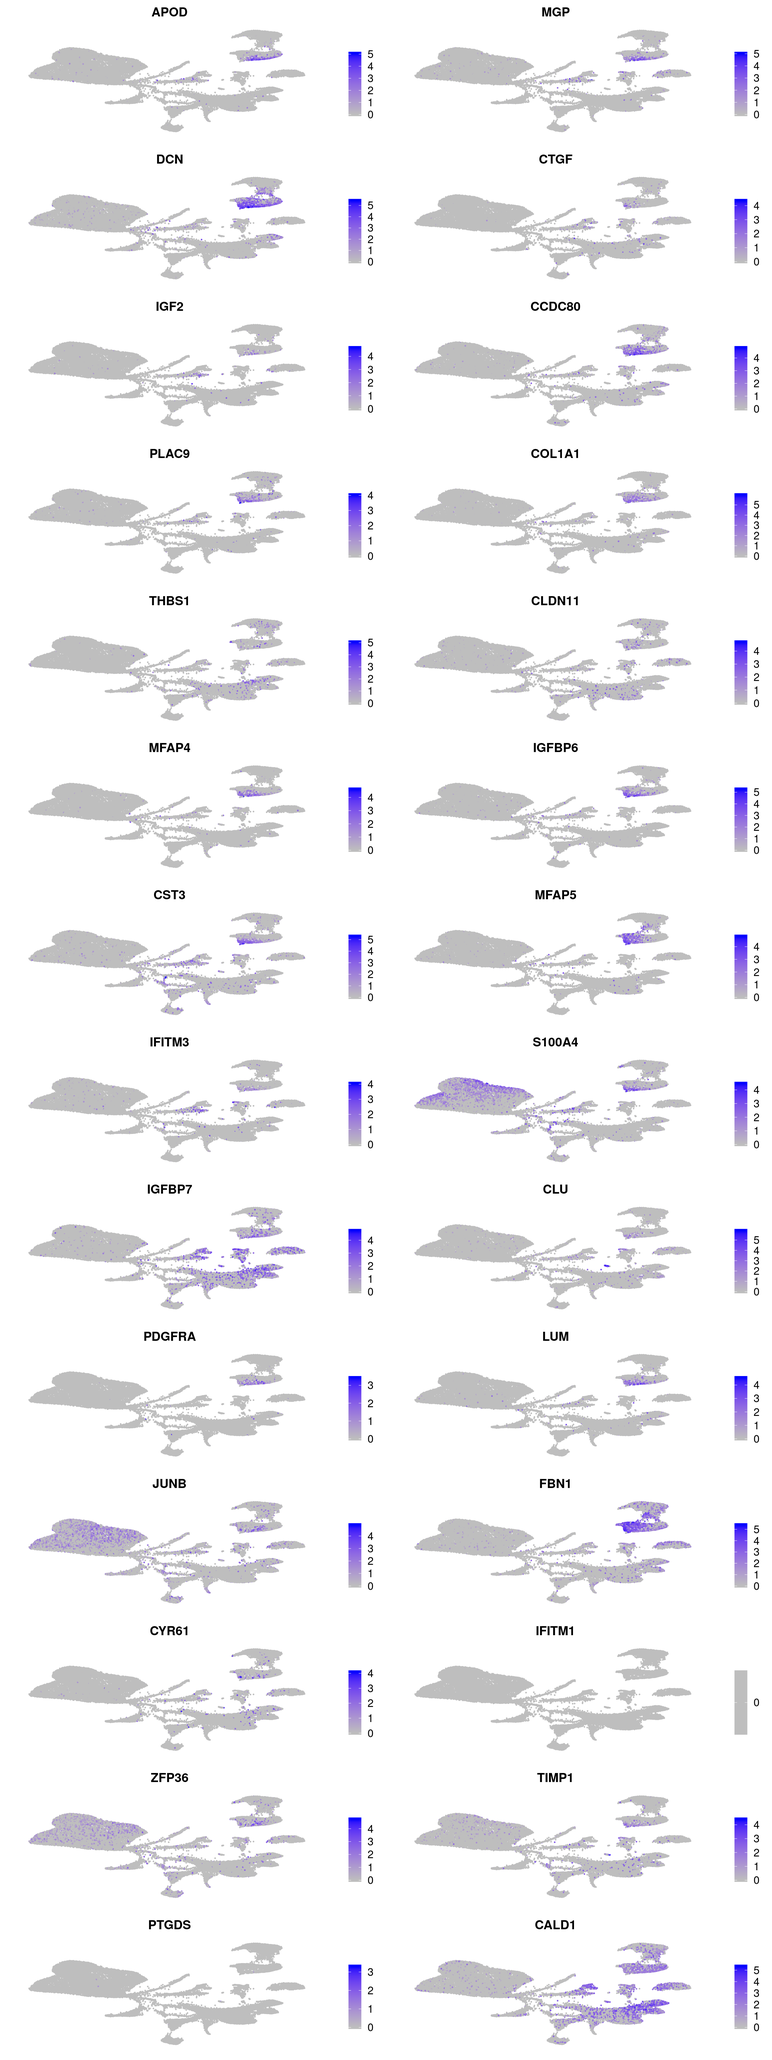
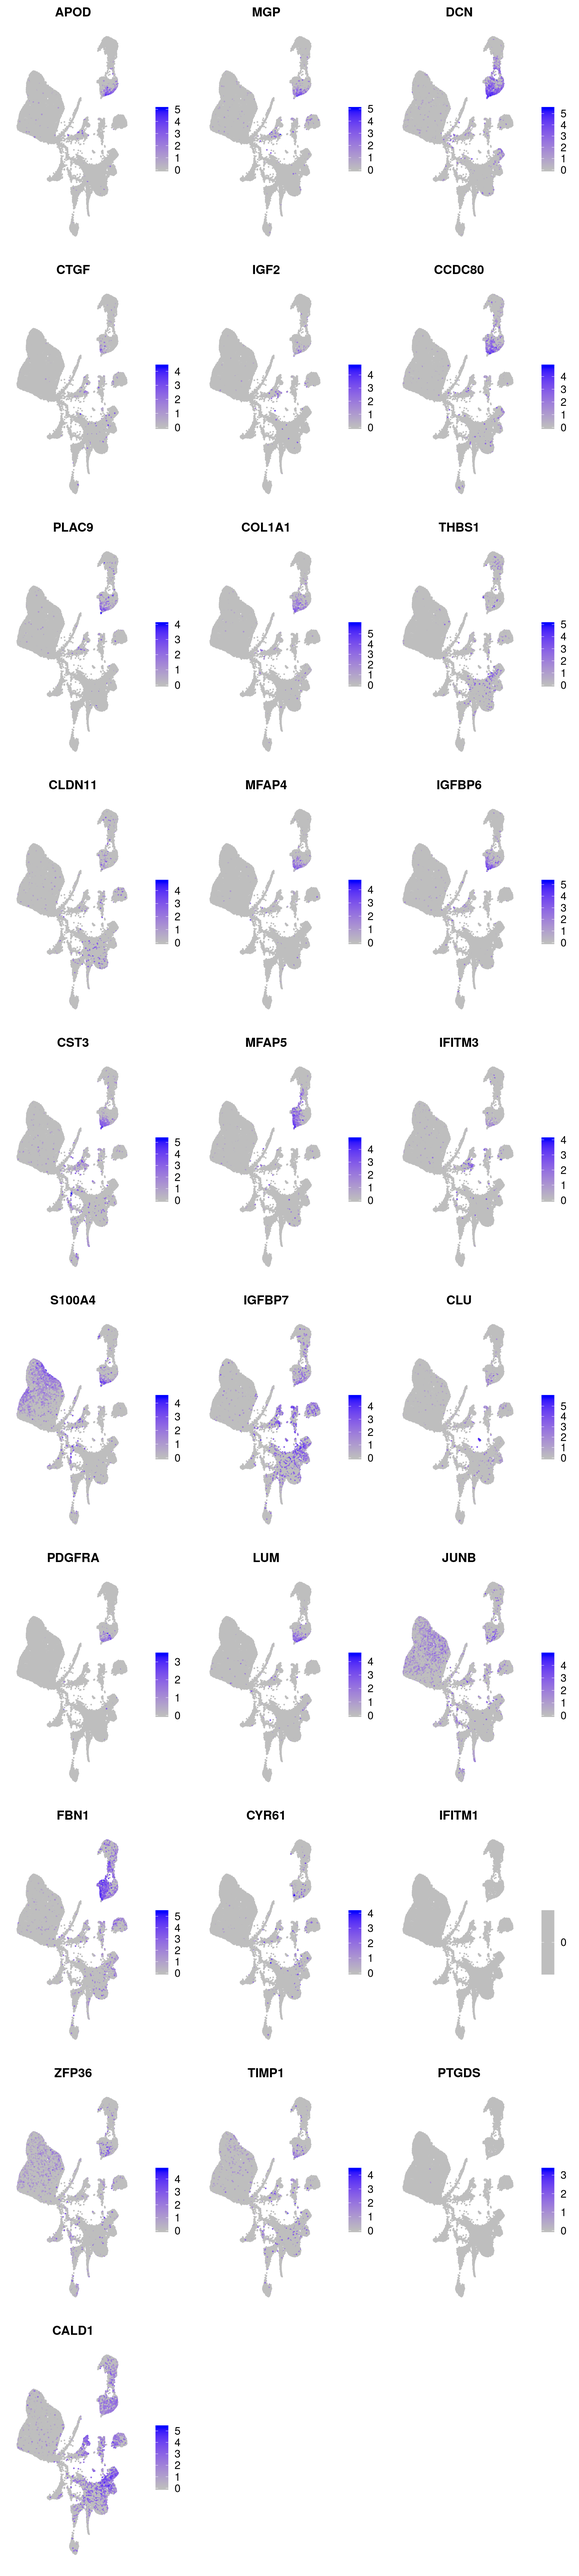
Build site.

diff --git a/docs/wolfrum_U-L-branch-markers.html b/docs/wolfrum_U-L-branch-markers.html
@@ -443,7 +443,7 @@ div.section {
 <div class="tab-content">
 <div id="summary" class="tab-pane fade in active">
 <p>
-<strong>Last updated:</strong> 2019-11-11
+<strong>Last updated:</strong> 2019-11-12
 </p>
 <p>
 <strong>Checks:</strong> <span class="glyphicon glyphicon-ok text-success" aria-hidden="true"></span> 6 <span class="glyphicon glyphicon-exclamation-sign text-danger" aria-hidden="true"></span> 0
@@ -522,10 +522,10 @@ This reproducible <a href="http://rmarkdown.rstudio.com">R Markdown</a> analysis
 <div class="panel panel-default">
 <div class="panel-heading">
 <p class="panel-title">
-<a data-toggle="collapse" data-parent="#workflowr-checks" href="#strongRepositoryversionstrongahrefhttpsgithubcompytrikfolkertsma10xadipocyteanalysistree77918ba7d19c7f7d2f1f0f823620944b8df836a2targetblank77918baa"> <span class="glyphicon glyphicon-ok text-success" aria-hidden="true"></span> <strong>Repository version:</strong> <a href="https://github.com/pytrikfolkertsma/10x-adipocyte-analysis/tree/77918ba7d19c7f7d2f1f0f823620944b8df836a2" target="_blank">77918ba</a> </a>
+<a data-toggle="collapse" data-parent="#workflowr-checks" href="#strongRepositoryversionstrongahrefhttpsgithubcompytrikfolkertsma10xadipocyteanalysistreeb6a5a90a7c6dcdcf7d717a633ea7867d77dd34batargetblankb6a5a90a"> <span class="glyphicon glyphicon-ok text-success" aria-hidden="true"></span> <strong>Repository version:</strong> <a href="https://github.com/pytrikfolkertsma/10x-adipocyte-analysis/tree/b6a5a90a7c6dcdcf7d717a633ea7867d77dd34ba" target="_blank">b6a5a90</a> </a>
 </p>
 </div>
[2 lines of base64/hex data omitted]
 <div class="panel-body">
 <p>
 Great! You are using Git for version control. Tracking code development and connecting the code version to the results is critical for reproducibility. The version displayed above was the version of the Git repository at the time these results were generated. <br><br> Note that you need to be careful to ensure that all relevant files for the analysis have been committed to Git prior to generating the results (you can use <code>wflow_publish</code> or <code>wflow_git_commit</code>). workflowr only checks the R Markdown file, but you know if there are other scripts or data files that it depends on. Below is the status of the Git repository when the results were generated:
@@ -549,12 +549,6 @@ Untracked files:
     Untracked:  10x-adipocyte-analysis-copy.Rproj
     Untracked:  analysis/.ipynb_checkpoints/10x-180831_harmony_palantir-checkpoint.ipynb
     Untracked:  analysis/.ipynb_checkpoints/velocyto_notebook_180831-checkpoint.ipynb
-    Untracked:  analysis/paga/
-    Untracked:  analysis/velocyto/.ipynb_checkpoints/
-    Untracked:  analysis/velocyto/Untitled.ipynb
-    Untracked:  analysis/wolfrum-scmap.Rmd
-    Untracked:  analysis/wolfrum_analysis.Rmd
-    Untracked:  analysis/wolfrum_cluster-markers.Rmd
     Untracked:  code/BEAM-heatmaps.R
     Untracked:  code/BEAM_gsea.R
     Untracked:  code/__pycache__/
@@ -565,10 +559,9 @@ Untracked files:
 
 Unstaged changes:
     Deleted:    10x-adipocyte-analysis.Rproj
-    Modified:   analysis/10x-180831-metabolic_ECM_genes.Rmd
-    Modified:   analysis/harmony/10x-180831_harmony_palantir.ipynb
     Deleted:    analysis/velocyto_notebook_180504.ipynb
     Deleted:    analysis/velocyto_notebook_180831.ipynb
+    Modified:   analysis/wolfrum_analysis.Rmd
     Deleted:    code/REMOVE/find-brown-sample-markers-180504-REMOVE.R
     Deleted:    code/REMOVE/find-white-sample-markers-180504-REMOVE.R
     Deleted:    code/REMOVE/get-genes-monocle-180831-REMOVE.R
@@ -617,6 +610,40 @@ Message
 </tr>
 </thead>
 <tbody>
+<tr>
+<td>
+Rmd
+</td>
+<td>
+<a href="https://github.com/pytrikfolkertsma/10x-adipocyte-analysis/blob/b6a5a90a7c6dcdcf7d717a633ea7867d77dd34ba/analysis/wolfrum_U-L-branch-markers.Rmd" target="_blank">b6a5a90</a>
+</td>
+<td>
+Pytrik Folkertsma
+</td>
+<td>
+2019-11-12
+</td>
+<td>
+wflow_publish(c(“analysis/wolfrum_U-L-branch-markers.Rmd”))
+</td>
+</tr>
+<tr>
+<td>
+html
+</td>
+<td>
+<a href="https://rawcdn.githack.com/pytrikfolkertsma/10x-adipocyte-analysis/6bd1632cddb40b8fbf3b7224abd49aac7bc4917b/docs/wolfrum_U-L-branch-markers.html" target="_blank">6bd1632</a>
+</td>
+<td>
+Pytrik Folkertsma
+</td>
+<td>
+2019-11-11
+</td>
+<td>
+Build site.
+</td>
+</tr>
 <tr>
 <td>
 Rmd
@@ -684,7 +711,7 @@ library(kableExtra)
 library(dplyr)</code></pre>
 <pre class="r"><code>wolfrum &lt;- readRDS(&#39;/projects/timshel/sc-scheele_lab_adipose_fluidigm_c1/data-wolfrum/wolfrum.compute.seurat_obj.rds&#39;)
 markers &lt;- read.table(&#39;/projects/pytrik/sc_adipose/analyze_10x_fluidigm/10x-adipocyte-analysis/output/markergenes/180831/markers_10x-180831_upperbranch_lowerbranch_negbinom.tsv&#39;, header=T)</code></pre>
-<pre class="r"><code>save_plots &lt;- function(data, markergenes, dir, branch){
+<pre class="r"><code>plot_featureplots &lt;- function(data, markergenes, dir, branch){
   plots &lt;- FeaturePlot(data, features=as.vector(markergenes$gene[1:56]), combine = FALSE, pt.size=0.2, cols=c(&#39;gray&#39;, &#39;blue&#39;))
 
   plots_edited &lt;- list()
@@ -694,16 +721,16 @@ markers &lt;- read.table(&#39;/projects/pytrik/sc_adipose/analyze_10x_fluidigm/1
     #save_plot(paste(dir, &#39;/&#39;, branch, &#39;/&#39;, as.vector(markergenes$gene[i]) ,&#39;.pdf&#39;, sep=&#39;&#39;), plots_edited[[i]], base_height=6, base_width=6)
   }
   
-  grid_1 &lt;- plot_grid(plotlist=plots_edited[1:28], ncol=2)
-  grid_2 &lt;- plot_grid(plotlist=plots_edited[29:56], ncol=2)
+  grid_1 &lt;- plot_grid(plotlist=plots_edited[1:28], ncol=3)
+  grid_2 &lt;- plot_grid(plotlist=plots_edited[29:56], ncol=3)
   
   #pdf
-  save_plot(paste(dir, &#39;markers_&#39;, branch, &#39;_1-28.pdf&#39;, sep=&#39;\t&#39;), grid_1, base_height=32, base_width=12)
-  save_plot(paste(dir, &#39;markers_&#39;, branch, &#39;_29-56.pdf&#39;, sep=&#39;\t&#39;), grid_2, base_height=32, base_width=12)
+  save_plot(paste(dir, &#39;markers_&#39;, branch, &#39;_1-28.pdf&#39;, sep=&#39;&#39;), grid_1, base_height=40, base_width=9)
+  save_plot(paste(dir, &#39;markers_&#39;, branch, &#39;_29-56.pdf&#39;, sep=&#39;&#39;), grid_2, base_height=40, base_width=9)
   
   #png
-    save_plot(paste(dir, &#39;markers_&#39;, branch, &#39;_1-28.png&#39;, sep=&#39;\t&#39;), grid_1, base_height=32, base_width=12)
-  save_plot(paste(dir, &#39;markers_&#39;, branch, &#39;_29-56.png&#39;, sep=&#39;\t&#39;), grid_2, base_height=32, base_width=12)
+    save_plot(paste(dir, &#39;markers_&#39;, branch, &#39;_1-28.png&#39;, sep=&#39;&#39;), grid_1, base_height=40, base_width=9)
+  save_plot(paste(dir, &#39;markers_&#39;, branch, &#39;_29-56.png&#39;, sep=&#39;&#39;), grid_2, base_height=40, base_width=9)
   
   return(list(grid_1, grid_2))
 }</code></pre>
@@ -711,9 +738,9 @@ markers &lt;- read.table(&#39;/projects/pytrik/sc_adipose/analyze_10x_fluidigm/1
 <pre class="r"><code>markers_u &lt;- markers[markers$avg_logFC &gt; 0,]
 markers_u &lt;- markers_u[order(-markers_u$avg_logFC),]</code></pre>
 <p>Top 56 markers for U branch sorted on logFC.</p>
-<pre class="r"><code>grids &lt;- save_plots(wolfrum, markergenes=markers_u, dir=&#39;/projects/pytrik/sc_adipose/analyze_10x_fluidigm/10x-adipocyte-analysis/figures/figures_paper/supplementary_figures/wolfrum/u_l_branch_markers/all_data&#39;, branch=&#39;U_branch&#39;)</code></pre>
+<pre class="r"><code>grids &lt;- plot_featureplots(wolfrum, markergenes=markers_u, dir=&#39;/projects/pytrik/sc_adipose/analyze_10x_fluidigm/10x-adipocyte-analysis/figures/figures_paper/supplementary_figures/wolfrum/u_l_branch_markers/all_data&#39;, branch=&#39;U_branch&#39;)</code></pre>
 <pre class="r"><code>grids[[1]]</code></pre>
-<p><img src="figure/wolfrum_U-L-branch-markers.Rmd/unnamed-chunk-6-1.png" width="1152" style="display: block; margin: auto;" /></p>
+<p><img src="figure/wolfrum_U-L-branch-markers.Rmd/unnamed-chunk-6-1.png" width="864" style="display: block; margin: auto;" /></p>
 <p>
 <button type="button" class="btn btn-default btn-xs btn-workflowr btn-workflowr-fig" data-toggle="collapse" data-target="#fig-unnamed-chunk-6-1">
 Past versions of unnamed-chunk-6-1.png
@@ -738,6 +765,17 @@ Date
 <tbody>
 <tr>
 <td>
+<a href="https://github.com/pytrikfolkertsma/10x-adipocyte-analysis/blob/6bd1632cddb40b8fbf3b7224abd49aac7bc4917b/docs/figure/wolfrum_U-L-branch-markers.Rmd/unnamed-chunk-6-1.png" target="_blank">6bd1632</a>
+</td>
+<td>
+Pytrik Folkertsma
+</td>
+<td>
+2019-11-11
+</td>
+</tr>
+<tr>
+<td>
 <a href="https://github.com/pytrikfolkertsma/10x-adipocyte-analysis/blob/cf6e507c6f1121a4b06e0823153beadd66b0ec38/docs/figure/wolfrum_U-L-branch-markers.Rmd/unnamed-chunk-6-1.png" target="_blank">cf6e507</a>
 </td>
 <td>
@@ -752,7 +790,7 @@ Pytrik Folkertsma
 </div>
 </div>
 <pre class="r"><code>grids[[2]]</code></pre>
-<p><img src="figure/wolfrum_U-L-branch-markers.Rmd/unnamed-chunk-7-1.png" width="1152" style="display: block; margin: auto;" /></p>
+<p><img src="figure/wolfrum_U-L-branch-markers.Rmd/unnamed-chunk-7-1.png" width="864" style="display: block; margin: auto;" /></p>
 <p>
 <button type="button" class="btn btn-default btn-xs btn-workflowr btn-workflowr-fig" data-toggle="collapse" data-target="#fig-unnamed-chunk-7-1">
 Past versions of unnamed-chunk-7-1.png
@@ -777,6 +815,17 @@ Date
 <tbody>
 <tr>
 <td>
+<a href="https://github.com/pytrikfolkertsma/10x-adipocyte-analysis/blob/6bd1632cddb40b8fbf3b7224abd49aac7bc4917b/docs/figure/wolfrum_U-L-branch-markers.Rmd/unnamed-chunk-7-1.png" target="_blank">6bd1632</a>
+</td>
+<td>
+Pytrik Folkertsma
+</td>
+<td>
+2019-11-11
+</td>
+</tr>
+<tr>
+<td>
 <a href="https://github.com/pytrikfolkertsma/10x-adipocyte-analysis/blob/cf6e507c6f1121a4b06e0823153beadd66b0ec38/docs/figure/wolfrum_U-L-branch-markers.Rmd/unnamed-chunk-7-1.png" target="_blank">cf6e507</a>
 </td>
 <td>
@@ -794,14 +843,14 @@ Pytrik Folkertsma
 <pre class="r"><code>markers_l &lt;- markers[markers$avg_logFC &lt; 0,]
 markers_l &lt;- markers_l[order(markers_l$avg_logFC),]</code></pre>
 <p>Top 56 markers for L branch sorted on logFC.</p>
-<pre class="r"><code>grids &lt;- save_plots(wolfrum, markergenes=markers_l, dir=&#39;/projects/pytrik/sc_adipose/analyze_10x_fluidigm/10x-adipocyte-analysis/figures/figures_paper/supplementary_figures/wolfrum/u_l_branch_markers/all_data&#39;, branch=&#39;L_branch&#39;)</code></pre>
+<pre class="r"><code>grids &lt;- plot_featureplots(wolfrum, markergenes=markers_l, dir=&#39;/projects/pytrik/sc_adipose/analyze_10x_fluidigm/10x-adipocyte-analysis/figures/figures_paper/supplementary_figures/wolfrum/u_l_branch_markers/all_data&#39;, branch=&#39;L_branch&#39;)</code></pre>
 <pre><code>Warning in FetchData(object = object, vars = c(dims, &quot;ident&quot;, features), :
 The following requested variables were not found: RP11-572C15.6, PPAP2B</code></pre>
 <pre><code>Warning in FeaturePlot(data, features =
 as.vector(markergenes$gene[1:56]), : All cells have the same value (0) of
 IFITM1.</code></pre>
 <pre class="r"><code>grids[[1]]</code></pre>
-<p><img src="figure/wolfrum_U-L-branch-markers.Rmd/unnamed-chunk-10-1.png" width="1152" style="display: block; margin: auto;" /></p>
+<p><img src="figure/wolfrum_U-L-branch-markers.Rmd/unnamed-chunk-10-1.png" width="864" style="display: block; margin: auto;" /></p>
 <p>
 <button type="button" class="btn btn-default btn-xs btn-workflowr btn-workflowr-fig" data-toggle="collapse" data-target="#fig-unnamed-chunk-10-1">
 Past versions of unnamed-chunk-10-1.png
@@ -826,6 +875,17 @@ Date
 <tbody>
 <tr>
 <td>
+<a href="https://github.com/pytrikfolkertsma/10x-adipocyte-analysis/blob/6bd1632cddb40b8fbf3b7224abd49aac7bc4917b/docs/figure/wolfrum_U-L-branch-markers.Rmd/unnamed-chunk-10-1.png" target="_blank">6bd1632</a>
+</td>
+<td>
+Pytrik Folkertsma
+</td>
+<td>
+2019-11-11
+</td>
+</tr>
+<tr>
+<td>
 <a href="https://github.com/pytrikfolkertsma/10x-adipocyte-analysis/blob/cf6e507c6f1121a4b06e0823153beadd66b0ec38/docs/figure/wolfrum_U-L-branch-markers.Rmd/unnamed-chunk-10-1.png" target="_blank">cf6e507</a>
 </td>
 <td>
@@ -840,7 +900,7 @@ Pytrik Folkertsma
 </div>
 </div>
 <pre class="r"><code>grids[[2]]</code></pre>
-<p><img src="figure/wolfrum_U-L-branch-markers.Rmd/unnamed-chunk-11-1.png" width="1152" style="display: block; margin: auto;" /></p>
+<p><img src="figure/wolfrum_U-L-branch-markers.Rmd/unnamed-chunk-11-1.png" width="864" style="display: block; margin: auto;" /></p>
 <p>
 <button type="button" class="btn btn-default btn-xs btn-workflowr btn-workflowr-fig" data-toggle="collapse" data-target="#fig-unnamed-chunk-11-1">
 Past versions of unnamed-chunk-11-1.png
@@ -865,6 +925,17 @@ Date
 <tbody>
 <tr>
 <td>
+<a href="https://github.com/pytrikfolkertsma/10x-adipocyte-analysis/blob/6bd1632cddb40b8fbf3b7224abd49aac7bc4917b/docs/figure/wolfrum_U-L-branch-markers.Rmd/unnamed-chunk-11-1.png" target="_blank">6bd1632</a>
+</td>
+<td>
+Pytrik Folkertsma
+</td>
+<td>
+2019-11-11
+</td>
+</tr>
+<tr>
+<td>
 <a href="https://github.com/pytrikfolkertsma/10x-adipocyte-analysis/blob/cf6e507c6f1121a4b06e0823153beadd66b0ec38/docs/figure/wolfrum_U-L-branch-markers.Rmd/unnamed-chunk-11-1.png" target="_blank">cf6e507</a>
 </td>
 <td>
@@ -879,12 +950,11 @@ Pytrik Folkertsma
 </div>
 </div>
 <p>#U branch markers for wolfrum preadipocyte subset</p>
-<pre class="r"><code>Idents(wolfrum) &lt;- wolfrum@meta.data$seurat_clusters
-wolfrum_subset &lt;- subset(wolfrum, idents=c(5,14,23,11,10,21,22))</code></pre>
+<pre class="r"><code>wolfrum_subset &lt;- readRDS(&#39;/projects/pytrik/sc_adipose/analyze_10x_fluidigm/10x-adipocyte-analysis/output/seurat_objects/wolfrum/wolfrum_subset.compute.seurat_obj.rds&#39;)</code></pre>
 <p>Top 56 markers for U branch sorted on logFC.</p>
-<pre class="r"><code>grids &lt;- save_plots(wolfrum_subset, markergenes=markers_u, dir=&#39;/projects/pytrik/sc_adipose/analyze_10x_fluidigm/10x-adipocyte-analysis/figures/figures_paper/supplementary_figures/wolfrum/u_l_branch_markers/preadipocyte_subset&#39;, branch=&#39;U_branch&#39;)</code></pre>
+<pre class="r"><code>grids &lt;- plot_featureplots(wolfrum_subset, markergenes=markers_u, dir=&#39;/projects/pytrik/sc_adipose/analyze_10x_fluidigm/10x-adipocyte-analysis/figures/figures_paper/supplementary_figures/wolfrum/u_l_branch_markers/preadipocyte_subset&#39;, branch=&#39;U_branch&#39;)</code></pre>
 <pre class="r"><code>grids[[1]]</code></pre>
-<p><img src="figure/wolfrum_U-L-branch-markers.Rmd/unnamed-chunk-14-1.png" width="1152" style="display: block; margin: auto;" /></p>
+<p><img src="figure/wolfrum_U-L-branch-markers.Rmd/unnamed-chunk-14-1.png" width="864" style="display: block; margin: auto;" /></p>
 <p>
 <button type="button" class="btn btn-default btn-xs btn-workflowr btn-workflowr-fig" data-toggle="collapse" data-target="#fig-unnamed-chunk-14-1">
 Past versions of unnamed-chunk-14-1.png
@@ -909,6 +979,17 @@ Date
 <tbody>
 <tr>
 <td>
+<a href="https://github.com/pytrikfolkertsma/10x-adipocyte-analysis/blob/6bd1632cddb40b8fbf3b7224abd49aac7bc4917b/docs/figure/wolfrum_U-L-branch-markers.Rmd/unnamed-chunk-14-1.png" target="_blank">6bd1632</a>
+</td>
+<td>
+Pytrik Folkertsma
+</td>
+<td>
+2019-11-11
+</td>
+</tr>
+<tr>
+<td>
 <a href="https://github.com/pytrikfolkertsma/10x-adipocyte-analysis/blob/cf6e507c6f1121a4b06e0823153beadd66b0ec38/docs/figure/wolfrum_U-L-branch-markers.Rmd/unnamed-chunk-14-1.png" target="_blank">cf6e507</a>
 </td>
 <td>
@@ -923,7 +1004,7 @@ Pytrik Folkertsma
 </div>
 </div>
 <pre class="r"><code>grids[[2]]</code></pre>
-<p><img src="figure/wolfrum_U-L-branch-markers.Rmd/unnamed-chunk-15-1.png" width="1152" style="display: block; margin: auto;" /></p>
+<p><img src="figure/wolfrum_U-L-branch-markers.Rmd/unnamed-chunk-15-1.png" width="864" style="display: block; margin: auto;" /></p>
 <p>
 <button type="button" class="btn btn-default btn-xs btn-workflowr btn-workflowr-fig" data-toggle="collapse" data-target="#fig-unnamed-chunk-15-1">
 Past versions of unnamed-chunk-15-1.png
@@ -948,6 +1029,17 @@ Date
 <tbody>
 <tr>
 <td>
+<a href="https://github.com/pytrikfolkertsma/10x-adipocyte-analysis/blob/6bd1632cddb40b8fbf3b7224abd49aac7bc4917b/docs/figure/wolfrum_U-L-branch-markers.Rmd/unnamed-chunk-15-1.png" target="_blank">6bd1632</a>
+</td>
+<td>
+Pytrik Folkertsma
+</td>
+<td>
+2019-11-11
+</td>
+</tr>
+<tr>
+<td>
 <a href="https://github.com/pytrikfolkertsma/10x-adipocyte-analysis/blob/cf6e507c6f1121a4b06e0823153beadd66b0ec38/docs/figure/wolfrum_U-L-branch-markers.Rmd/unnamed-chunk-15-1.png" target="_blank">cf6e507</a>
 </td>
 <td>
@@ -963,14 +1055,14 @@ Pytrik Folkertsma
 </div>
 <p>#L branch markers for wolfrum adipocyte subset</p>
 <p>Top 56 markers for L branch sorted on logFC.</p>
-<pre class="r"><code>grids &lt;- save_plots(wolfrum_subset, markergenes=markers_l, dir=&#39;/projects/pytrik/sc_adipose/analyze_10x_fluidigm/10x-adipocyte-analysis/figures/figures_paper/supplementary_figures/wolfrum/u_l_branch_markers/preadipocyte_subset&#39;, branch=&#39;L_branch&#39;)</code></pre>
+<pre class="r"><code>grids &lt;- plot_featureplots(wolfrum_subset, markergenes=markers_l, dir=&#39;/projects/pytrik/sc_adipose/analyze_10x_fluidigm/10x-adipocyte-analysis/figures/figures_paper/supplementary_figures/wolfrum/u_l_branch_markers/preadipocyte_subset&#39;, branch=&#39;L_branch&#39;)</code></pre>
 <pre><code>Warning in FetchData(object = object, vars = c(dims, &quot;ident&quot;, features), :
 The following requested variables were not found: RP11-572C15.6, PPAP2B</code></pre>
 <pre><code>Warning in FeaturePlot(data, features =
 as.vector(markergenes$gene[1:56]), : All cells have the same value (0) of
 IFITM1.</code></pre>
 <pre class="r"><code>grids[[1]]</code></pre>
-<p><img src="figure/wolfrum_U-L-branch-markers.Rmd/unnamed-chunk-17-1.png" width="1152" style="display: block; margin: auto;" /></p>
+<p><img src="figure/wolfrum_U-L-branch-markers.Rmd/unnamed-chunk-17-1.png" width="864" style="display: block; margin: auto;" /></p>
 <p>
 <button type="button" class="btn btn-default btn-xs btn-workflowr btn-workflowr-fig" data-toggle="collapse" data-target="#fig-unnamed-chunk-17-1">
 Past versions of unnamed-chunk-17-1.png
@@ -995,6 +1087,17 @@ Date
 <tbody>
 <tr>
 <td>
+<a href="https://github.com/pytrikfolkertsma/10x-adipocyte-analysis/blob/6bd1632cddb40b8fbf3b7224abd49aac7bc4917b/docs/figure/wolfrum_U-L-branch-markers.Rmd/unnamed-chunk-17-1.png" target="_blank">6bd1632</a>
+</td>
+<td>
+Pytrik Folkertsma
+</td>
+<td>
+2019-11-11
+</td>
+</tr>
+<tr>
+<td>
 <a href="https://github.com/pytrikfolkertsma/10x-adipocyte-analysis/blob/cf6e507c6f1121a4b06e0823153beadd66b0ec38/docs/figure/wolfrum_U-L-branch-markers.Rmd/unnamed-chunk-17-1.png" target="_blank">cf6e507</a>
 </td>
 <td>
@@ -1009,7 +1112,7 @@ Pytrik Folkertsma
 </div>
 </div>
 <pre class="r"><code>grids[[2]]</code></pre>
-<p><img src="figure/wolfrum_U-L-branch-markers.Rmd/unnamed-chunk-18-1.png" width="1152" style="display: block; margin: auto;" /></p>
+<p><img src="figure/wolfrum_U-L-branch-markers.Rmd/unnamed-chunk-18-1.png" width="864" style="display: block; margin: auto;" /></p>
 <p>
 <button type="button" class="btn btn-default btn-xs btn-workflowr btn-workflowr-fig" data-toggle="collapse" data-target="#fig-unnamed-chunk-18-1">
 Past versions of unnamed-chunk-18-1.png
@@ -1032,6 +1135,17 @@ Date
 </tr>
 </thead>
 <tbody>
+<tr>
+<td>
+<a href="https://github.com/pytrikfolkertsma/10x-adipocyte-analysis/blob/6bd1632cddb40b8fbf3b7224abd49aac7bc4917b/docs/figure/wolfrum_U-L-branch-markers.Rmd/unnamed-chunk-18-1.png" target="_blank">6bd1632</a>
+</td>
+<td>
+Pytrik Folkertsma
+</td>
+<td>
+2019-11-11
+</td>
+</tr>
 <tr>
 <td>
 <a href="https://github.com/pytrikfolkertsma/10x-adipocyte-analysis/blob/cf6e507c6f1121a4b06e0823153beadd66b0ec38/docs/figure/wolfrum_U-L-branch-markers.Rmd/unnamed-chunk-18-1.png" target="_blank">cf6e507</a>
